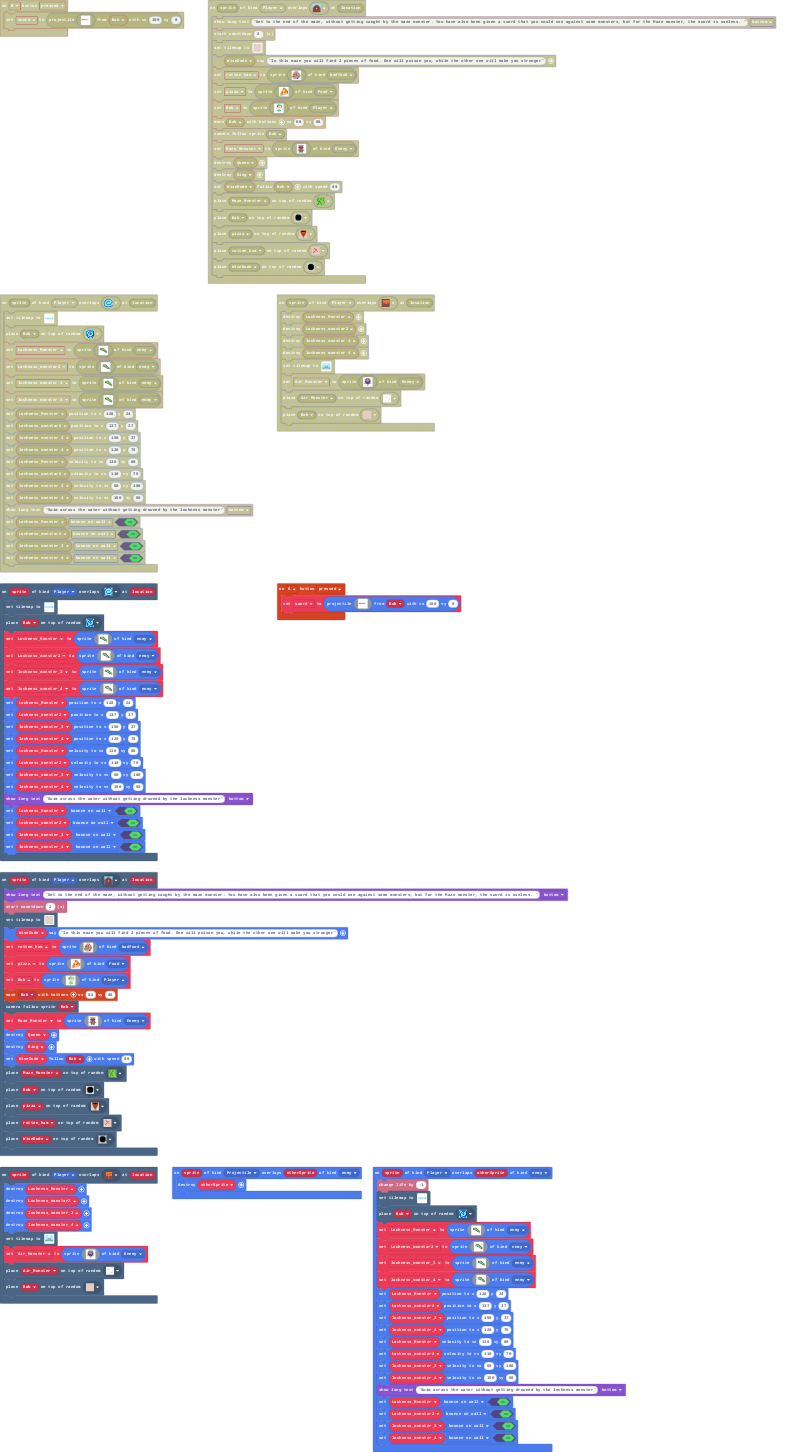
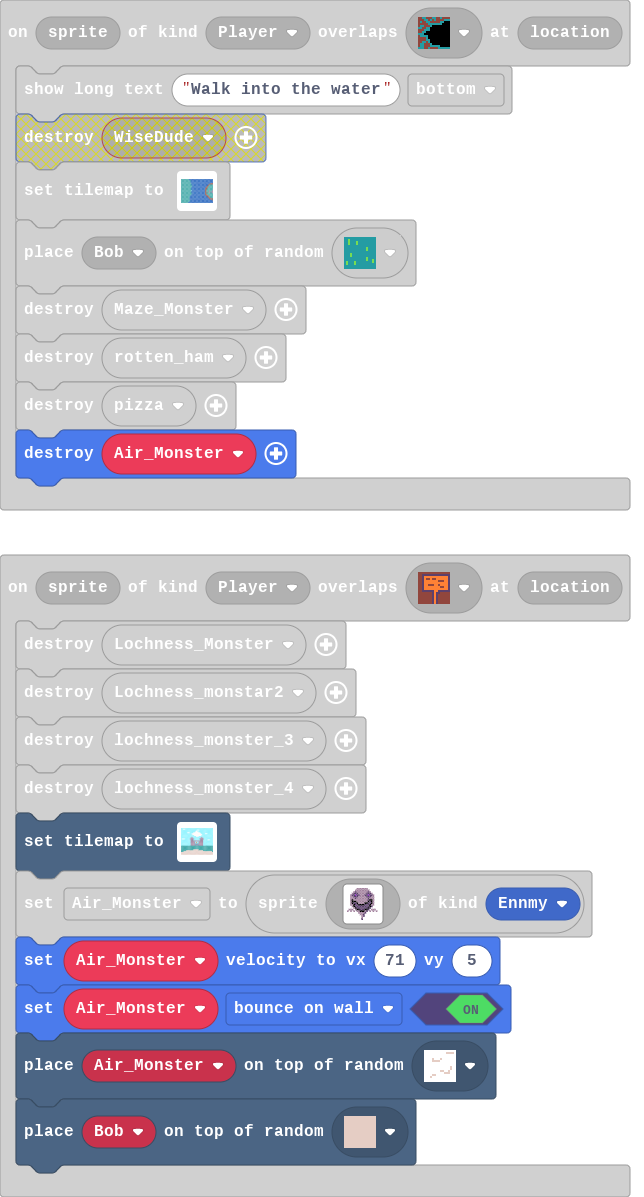
Update main.blocks, main.ts

diff --git a/main.ts b/main.ts
@@ -3,6 +3,7 @@ namespace SpriteKind {
     export const badfood = SpriteKind.create()
     export const non = SpriteKind.create()
     export const enmy = SpriteKind.create()
+    export const Ennmy = SpriteKind.create()
 }
 sprites.onOverlap(SpriteKind.Projectile, SpriteKind.enmy, function (sprite, otherSprite) {
     otherSprite.destroy()
@@ -36,7 +37,7 @@ scene.onOverlapTile(SpriteKind.Player, myTiles.tile42, function (sprite, locatio
     Lochness_monstar2.destroy()
     lochness_monster_3.destroy()
     lochness_monster_4.destroy()
[2 lines of base64/hex data omitted]
         ....................................
         ....................................
         ....................................
@@ -89,7 +90,9 @@ scene.onOverlapTile(SpriteKind.Player, myTiles.tile42, function (sprite, locatio
         .........bc.........
         .........b..........
         .........c..........
-        `, SpriteKind.Enemy)
+        `, SpriteKind.Ennmy)
+    Air_Monster.setVelocity(71, 5)
+    Air_Monster.setFlag(SpriteFlag.BounceOnWall, true)
     tiles.placeOnRandomTile(Air_Monster, myTiles.tile62)
     tiles.placeOnRandomTile(Bob, myTiles.tile71)
 })
@@ -386,7 +389,6 @@ info.onCountdownEnd(function () {
 })
 scene.onOverlapTile(SpriteKind.Player, myTiles.tile17, function (sprite, location) {
     game.showLongText("Walk into the water", DialogLayout.Bottom)
-    WiseDude.destroy()
[1 lines of base64/hex data omitted]
         ..........2.............................
         ..........222...........................
@@ -423,6 +425,7 @@ scene.onOverlapTile(SpriteKind.Player, myTiles.tile17, function (sprite, locatio
     Maze_Monster.destroy()
     rotten_ham.destroy()
     pizza.destroy()
+    Air_Monster.destroy()
 })
 info.onLifeZero(function () {
     game.over(false)
